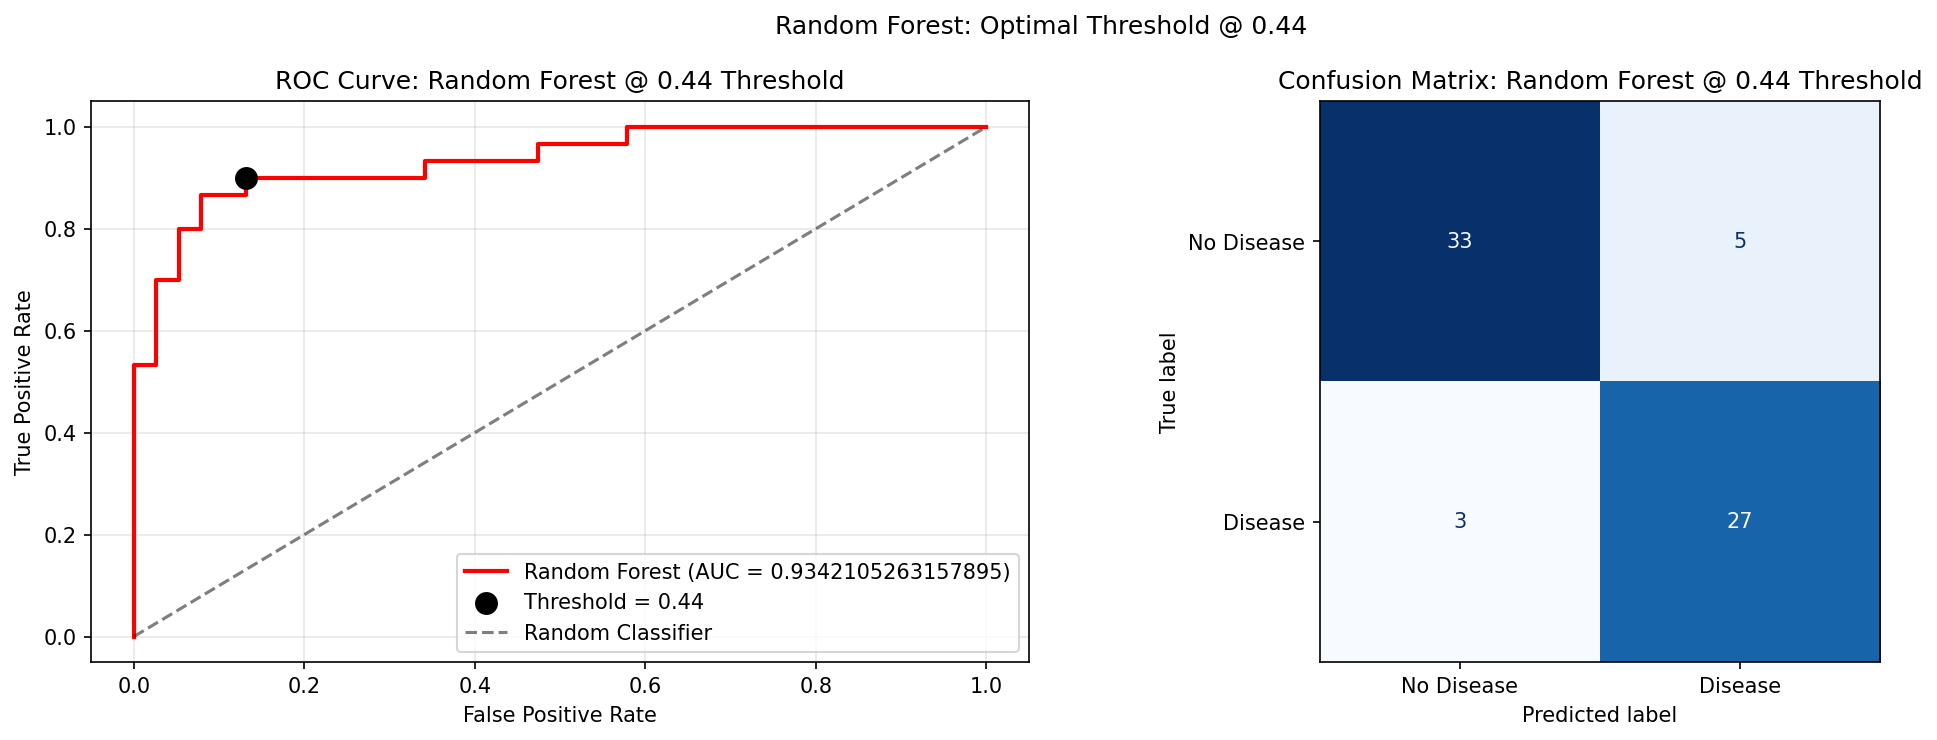
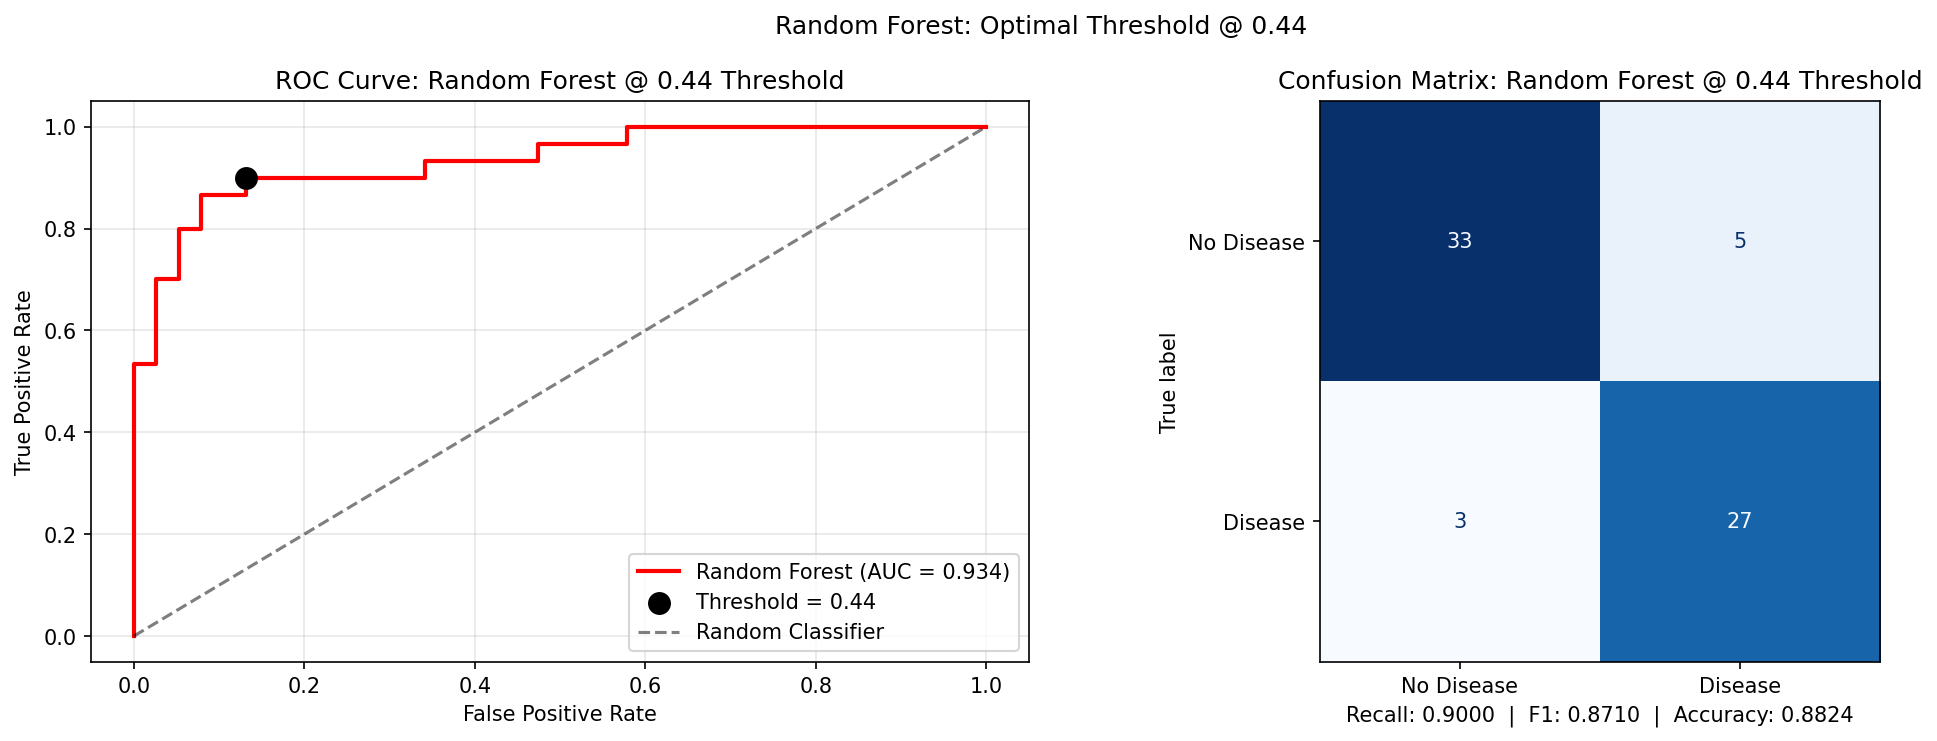
Complete

diff --git a/main.py b/main.py
@@ -548,7 +548,7 @@ fpr, tpr, thresholds_roc = roc_curve(y_test, rand_for_prob)
 auc_score = roc_auc_score(y_test, rand_for_prob)
 
 axes[0].plot(fpr, tpr, color="red", lw=2,
-              label=f"Random Forest (AUC = {auc_score})")
+              label=f"Random Forest (AUC = {auc_score:.3f})")
 axes[0].scatter(fpr[np.argmin(np.abs(thresholds_roc - 0.44))],
                  tpr[np.argmin(np.abs(thresholds_roc - 0.44))],
                  color="black", zorder=5, s=100,
@@ -566,6 +566,15 @@ disp = ConfusionMatrixDisplay(confusion_matrix=cm,
                                display_labels=["No Disease", "Disease"])
 disp.plot(ax=axes[1], colorbar=False, cmap="Blues")
 axes[1].set_title("Confusion Matrix: Random Forest @ 0.44 Threshold")
+
+# Performance Metrics
+recall   = recall_score(y_test, rand_for_pred_44)
+accuracy = accuracy_score(y_test, rand_for_pred_44)
+f1       = f1_score(y_test, rand_for_pred_44)
+
+axes[1].set_xlabel(
+    f"Recall: {recall:.4f}  |  F1: {f1:.4f}  |  Accuracy: {accuracy:.4f}"
+)
 
 plt.suptitle("Random Forest: Optimal Threshold @ 0.44")
 plt.tight_layout()
